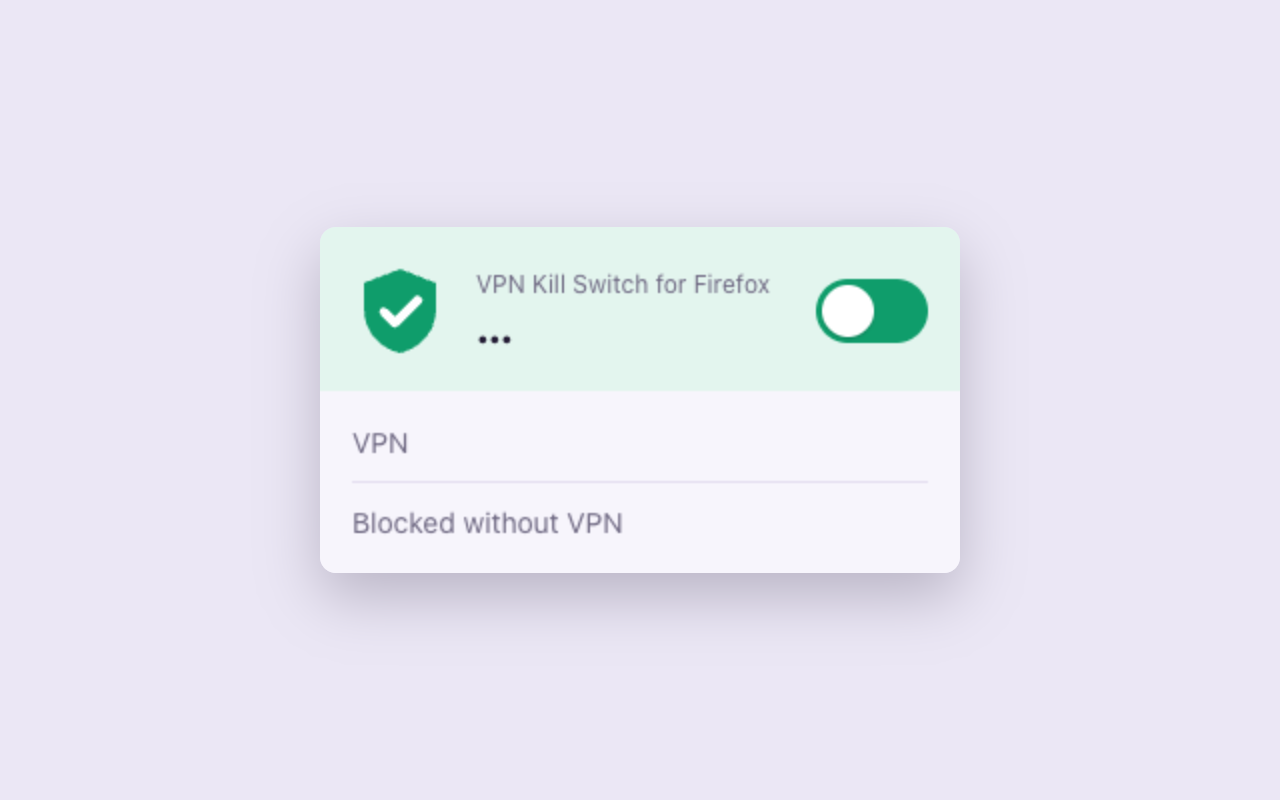
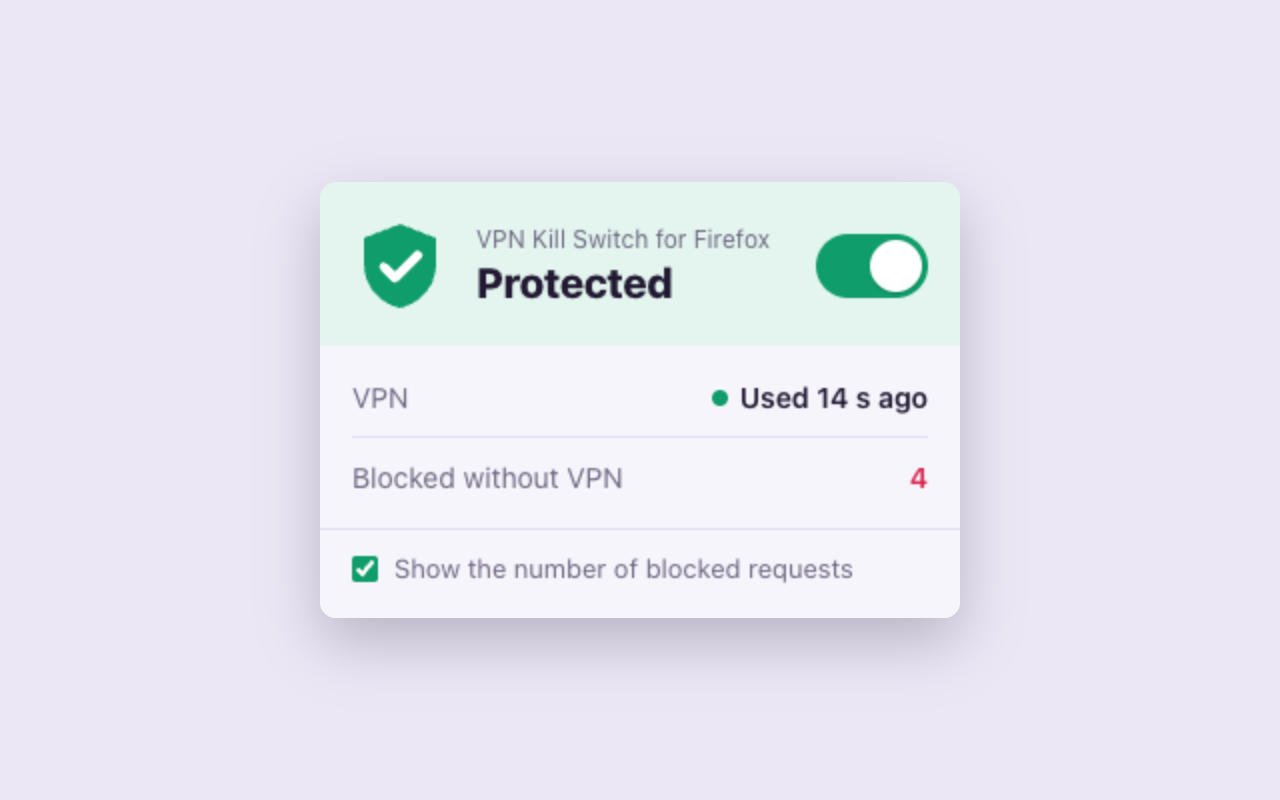
Release 0.4.0
- Option to hide the number of blocked requests
- Log blocked internal requests to the extension console
- Screenshot script in the repo

diff --git a/CONTRIBUTING.md b/CONTRIBUTING.md
@@ -15,6 +15,7 @@ tests/
   e2e.py              end-to-end tests in a real headless Firefox
   fake-vpn/           test extension that simulates the built-in VPN
 docs/                 technical notes, store listing, screenshots
+scripts/screenshots.mjs  renders docs/screenshots/
 ```
 
 ## Ground rules
@@ -33,5 +34,6 @@ docs/                 technical notes, store listing, screenshots
 ## Releasing
 
 1. Update `version` in `extension/manifest.json` and `package.json`, and add an entry to `CHANGELOG.md`.
-2. `npm run lint && npm run build`.
-3. Upload `web-ext-artifacts/*.zip` to addons.mozilla.org. Listing texts and reviewer notes are in [docs/amo-listing.md](docs/amo-listing.md).
+2. If the UI changed, `npm run screenshots` (needs Playwright's Chromium: `npx playwright install chromium`, or set `CHROMIUM_PATH`).
+3. `npm run lint && npm run build`.
+4. Upload `web-ext-artifacts/*.zip` to addons.mozilla.org. Listing texts and reviewer notes are in [docs/amo-listing.md](docs/amo-listing.md).

diff --git a/CHANGELOG.md b/CHANGELOG.md
@@ -1,6 +1,6 @@
 # Changelog
 
-## Unreleased
+## 0.4.0 (2026-11-09)
 
 - New option in the popup to hide the number of blocked requests.
 - Blocked internal Firefox requests are logged to the extension's console, to help troubleshoot.
